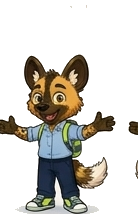
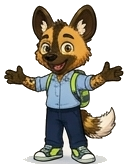
Somara: corrige icone da app (era o emblema da Takova, agora e o Roby)
O icone/manifest/favicon usavam somara-emblem.png -- o emblema CORPORATIVO da Takova, com texto 'TAKOVA' ilegivel a tamanho de icone e sem margem de seguranca para mascaras Android (maskable). Substituido por um icone proprio da Somara: Roby (a mascote) num medalhao creme com anel chartreuse sobre fundo Gun Metal, dentro da zona segura para 'maskable'.

De caminho, corrigido roby-hero.png em si -- tinha fragmentos de personagens vizinhas coladas nas margens (residuo do recorte original da folha de sprites). Novo recorte + deteccao de componentes ligados (mantém só o maior) remove os fragmentos sem arriscar cortar o proprio Roby.

Gerados: somara-icon-64/180/192/512.png + 512-maskable.png. manifest.webmanifest e sw.js (cache v3) actualizados para os novos ficheiros.

diff --git a/somara-app/sw.js b/somara-app/sw.js
@@ -9,7 +9,7 @@
      do Roby) continuam CACHE-FIRST — mais rápido, sem desperdiçar
      rede a repetir o que já se sabe que não muda.
    Bump CACHE só é necessário se ASSETS mudar de lista. */
-var CACHE = "somara-v2";
+var CACHE = "somara-v3";
 var APP_SHELL = [
   "./", "index.html", "manifest.webmanifest",
   "assets/css/somara.css",
@@ -19,8 +19,9 @@ var APP_SHELL = [
 var STATIC_ASSETS = [
   "assets/fonts/Melfira-Regular.ttf",
   "assets/img/roby-hero.png", "assets/img/roby-feliz.png", "assets/img/roby-triste.png",
-  "assets/img/roby-confiante.png", "assets/img/roby-graduate.png", "assets/img/somara-emblem.png",
-  "assets/img/somara-icon-180.png", "assets/img/somara-icon-64.png"
+  "assets/img/roby-confiante.png", "assets/img/roby-graduate.png",
+  "assets/img/somara-icon-64.png", "assets/img/somara-icon-180.png",
+  "assets/img/somara-icon-192.png", "assets/img/somara-icon-512.png", "assets/img/somara-icon-512-maskable.png"
 ];
 
 self.addEventListener("install", function (e) {
